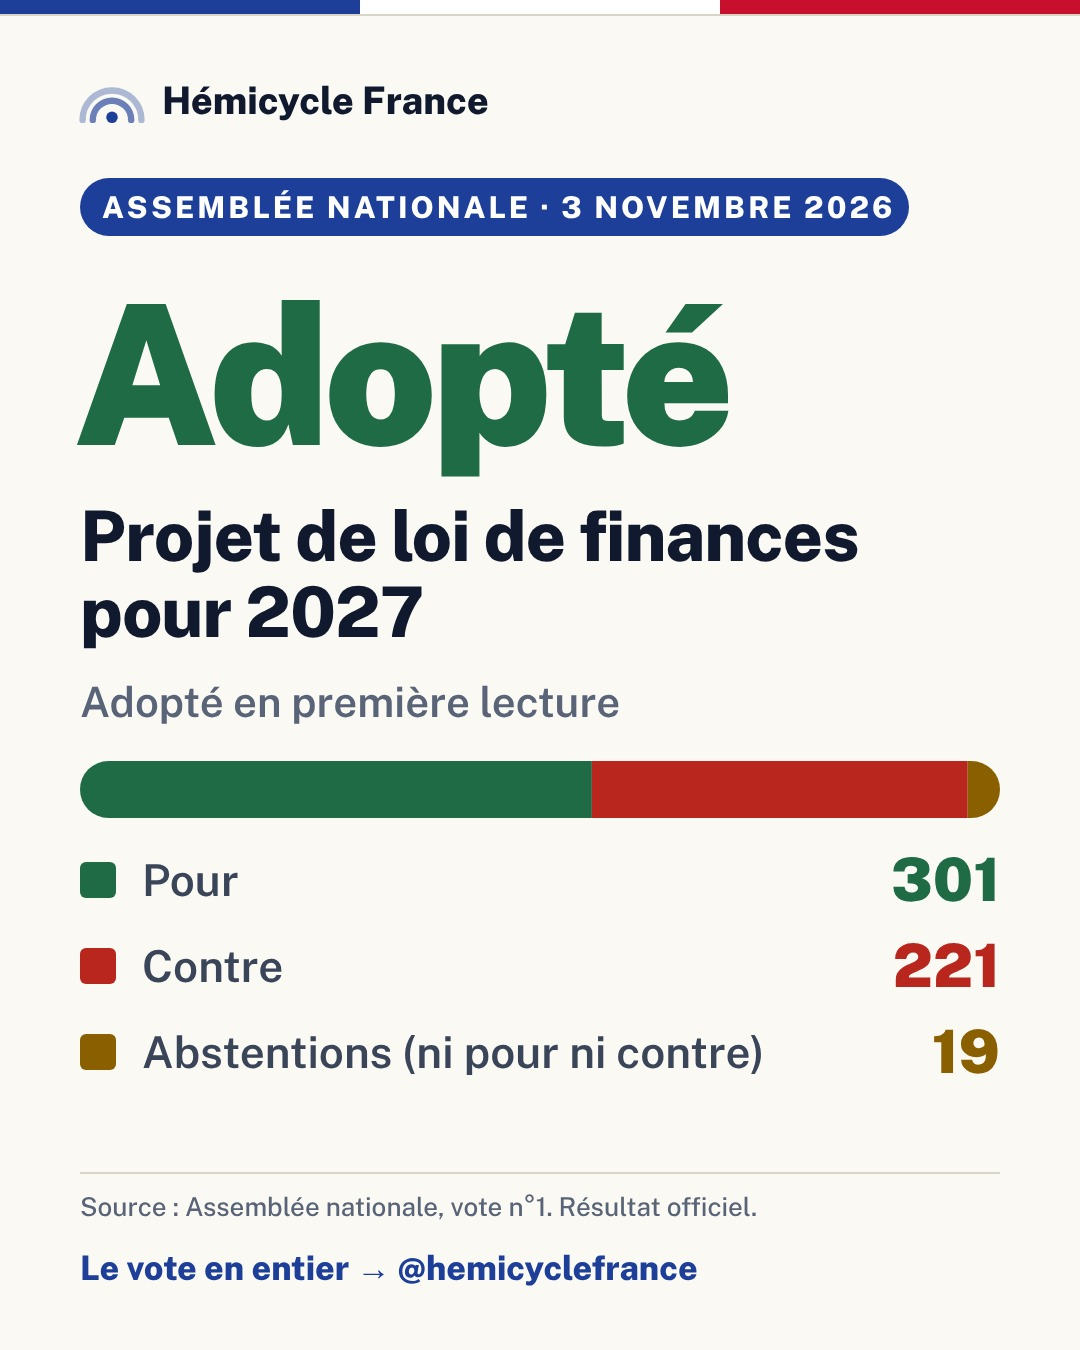
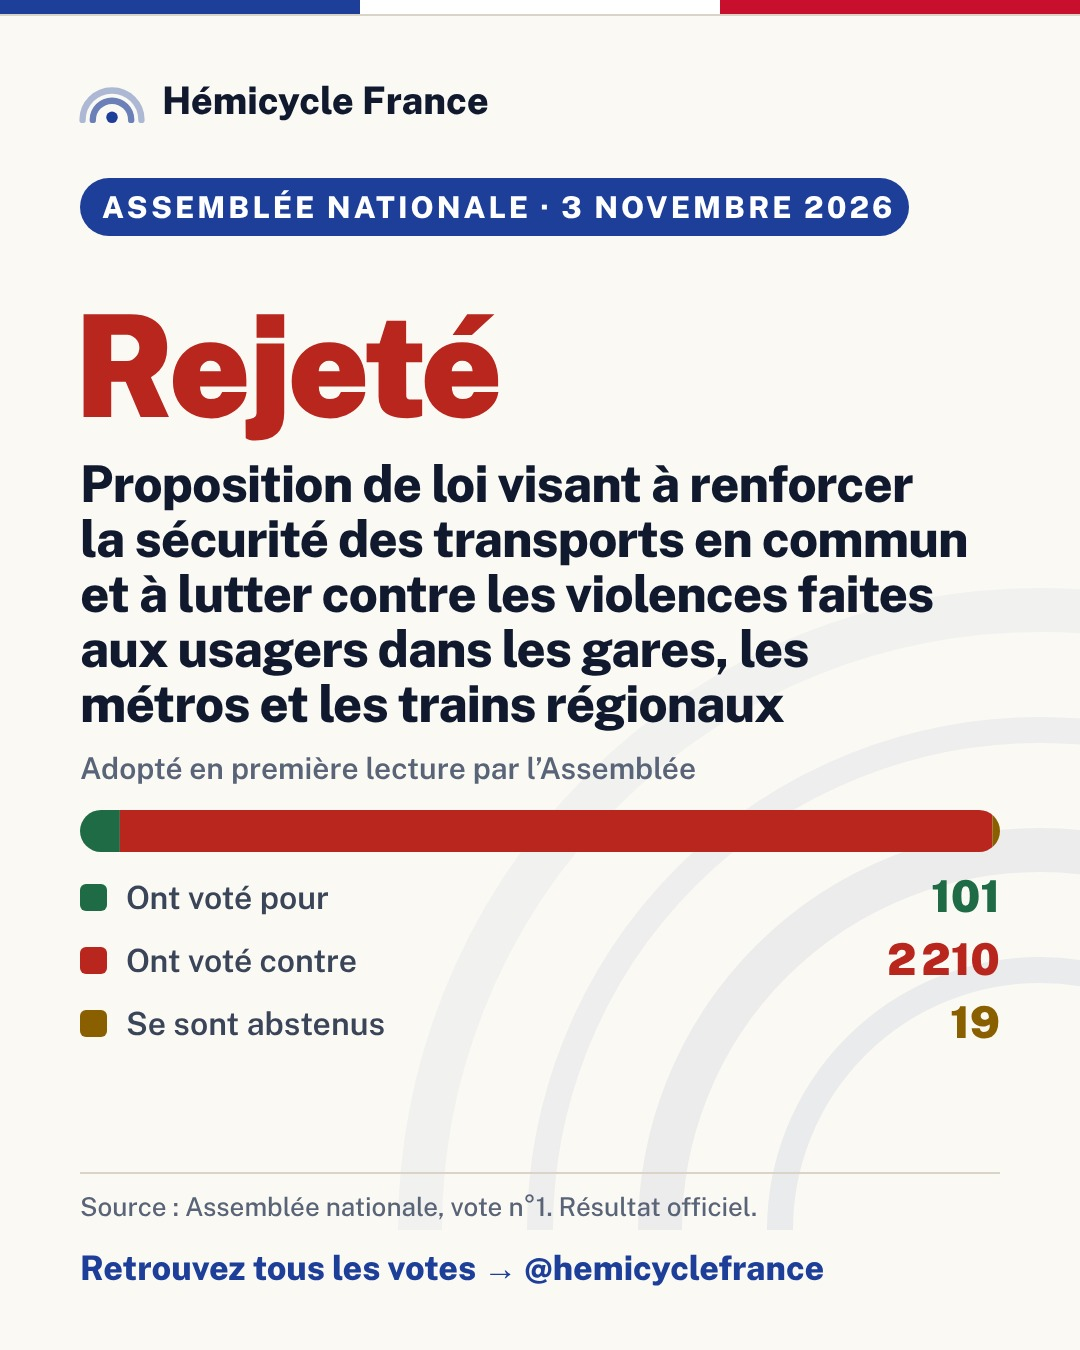
Mise en page soignée et textes plus humains
Claude-Session: https://claude.ai/code/session_01EkfaTwQmovFd7iHP4JS3BC

Changed region(s): [[0.0611, 0.2178, 0.9472, 0.8089], [0.0611, 0.9333, 0.7639, 0.9644]]

diff --git a/js/stories-vecto.js b/js/stories-vecto.js
@@ -26,7 +26,18 @@ function mesure(txt, poids, taille){
   return _m.measureText(txt).width;
 }
 // Retour à la ligne : renvoie au plus `max` lignes ; si le texte est trop long, la dernière finit par « … » (jamais sur un mot faible)
-function lignes(txt, poids, taille, larg, max = 99){
+function lignes(txt, poids, taille, larg, max = 99, equilibre = false){
+  const r = lignesBrut(txt, poids, taille, larg, max);
+  if(!equilibre || r.coupe || r.l.length < 2) return r;
+  // rag équilibré : la plus petite largeur qui garde le même nombre de lignes (plus de mot orphelin sur la dernière)
+  let lo = larg * 0.55, hi = larg, best = r;
+  for(let i = 0; i < 9; i++){
+    const mid = (lo + hi) / 2, t = lignesBrut(txt, poids, taille, mid, max);
+    if(!t.coupe && t.l.length === r.l.length){ best = t; hi = mid; } else lo = mid;
+  }
+  return best;
+}
+function lignesBrut(txt, poids, taille, larg, max = 99){
   const mots = typo(txt).split(" ").filter(Boolean), out = [];
   let cur = "";
   for(const m of mots){
@@ -45,8 +56,15 @@ function lignes(txt, poids, taille, larg, max = 99){
 const txtSvg = (t, x, y, { taille = 40, poids = 500, couleur = ENCRE, ancre = "start", ls = 0 } = {}) =>
   `<text x="${x}" y="${y}" font-family="${FAM}" font-size="${taille}" font-weight="${poids}" fill="${couleur}" text-anchor="${ancre}"${ls ? ` letter-spacing="${ls}"` : ""}>${esc(t)}</text>`;
 // Paragraphe : renvoie { svg, h }. `y` = haut du bloc
-function para(txt, x, y, { taille = 40, poids = 500, couleur = ENCRE, larg = LARG, max = 99, inter = 1.28, ls = 0 } = {}){
-  const r = lignes(txt, poids, taille, larg, max), pas = Math.round(taille * inter);
+function para(txt, x, y, { taille = 40, poids = 500, couleur = ENCRE, larg = LARG, max = 99, inter = 1.28, ls = 0, eq = false, entier = false, min = 30, phrases = false } = {}){
+  if(phrases && lignes(txt, poids, taille, larg, max).coupe){ // trop long : on garde les phrases entières qui tiennent plutôt qu'une coupe au milieu
+    const ph = typo(txt).match(/[^.!?]+[.!?]+(?:\s|$)/g) || [];
+    let ok = "";
+    for(const f of ph){ const t = (ok + f).trim(); if(lignes(t, poids, taille, larg, max).coupe) break; ok = t + " "; }
+    if(ok.trim()) txt = ok.trim();
+  }
+  if(entier) while(taille > min && lignes(txt, poids, taille, larg, max).coupe) taille -= 2; // un titre n'est jamais coupé : on réduit d'abord la taille
+  const r = lignes(txt, poids, taille, larg, max, eq), pas = Math.round(taille * inter);
   const svg = r.l.map((s, i) => txtSvg(s, x, y + Math.round(taille * 0.92) + i * pas, { taille, poids, couleur, ls })).join("");
   return { svg, h: r.l.length * pas, n: r.l.length };
 }
@@ -55,6 +73,8 @@ function logo(x, y, s = 64, couleur = BLEU){
   const c = s / 2, arc = (r, e) => `<path d="M ${c - r} ${s * 0.78} A ${r} ${r} 0 0 1 ${c + r} ${s * 0.78}" fill="none" stroke="${couleur}" stroke-width="${e}" stroke-linecap="round" opacity="${r > c * 0.8 ? 0.35 : r > c * 0.45 ? 0.65 : 1}"/>`;
   return `<g transform="translate(${x} ${y})">${arc(s * 0.46, s * 0.1)}${arc(s * 0.3, s * 0.1)}<circle cx="${c}" cy="${s * 0.74}" r="${s * 0.09}" fill="${couleur}"/></g>`;
 }
+// Grand hémicycle stylisé, très pâle, en bas à droite : remplit le vide sans gêner la lecture (forme vectorielle pure)
+const decor = (col, H) => { const cx = L - 40, cy = H - 120; return [620, 500, 380, 260].map((r, i) => `<path d="M ${cx - r} ${cy} A ${r} ${r} 0 0 1 ${cx + r} ${cy}" fill="none" stroke="${col}" stroke-width="${i % 2 ? 26 : 44}" opacity="${0.045 + i * 0.01}"/>`).join(""); };
 const bandeauTricolore = () => `<rect x="0" y="0" width="${L / 3}" height="14" fill="#1D3F9A"/><rect x="${L / 3}" y="0" width="${L / 3}" height="14" fill="#FFFFFF"/><rect x="${2 * L / 3}" y="0" width="${L / 3}" height="14" fill="#C8102E"/><rect x="0" y="14" width="${L}" height="2" fill="${FILET}"/>`;
 // Pastille (étiquette) : renvoie { svg, w }
 function pastille(txt, x, y, { fond = BLEU, texte = BLANC, taille = 30 } = {}){
@@ -70,8 +90,8 @@ const VERT = "#1F6B45", ROUGEV = "#B8261E", AMBRE = "#8A5F00";
 function bloc(b, x, y, k){ // renvoie { svg, h } ; y = haut
   const S = n => Math.round(n * k);
   switch(b.t){
-    case "titre": { const o = { taille: S(b.taille || 84), poids: 800, couleur: ENCRE, max: b.max || 5, inter: 1.08, ls: -1 }; const p = para(b.txt, x, y, o); return { svg: p.svg, h: p.h + S(22) }; }
-    case "p": { const p = para(b.txt, x, y, { taille: S(b.taille || 42), poids: b.poids || 500, couleur: b.couleur || DOUX, max: b.max || 6, larg: b.larg || LARG }); return { svg: p.svg, h: p.h + S(b.espace == null ? 22 : b.espace) }; }
+    case "titre": { const o = { taille: S(b.taille || 84), poids: 800, couleur: ENCRE, max: (b.max || 5) + 2, inter: 1.08, ls: -1, eq: true, entier: true, min: 34 }; const p = para(b.txt, x, y, o); return { svg: p.svg, h: p.h + S(22) }; }
+    case "p": { const p = para(b.txt, x, y, { taille: S(b.taille || 42), poids: b.poids || 500, couleur: b.couleur || DOUX, max: b.max || 6, larg: b.larg || LARG, phrases: Boolean(b.phrases) }); return { svg: p.svg, h: p.h + S(b.espace == null ? 22 : b.espace) }; }
     case "hero": { // grand nombre + légende
       let t = S(b.taille || 230); while(t > 70 && mesure(b.txt, 900, t) > LARG) t -= 6;
       const svg = txtSvg(b.txt, x - 6, y + Math.round(t * 0.82), { taille: t, poids: 900, couleur: b.couleur || BLEU, ls: -t * 0.03 });
@@ -107,7 +127,7 @@ function bloc(b, x, y, k){ // renvoie { svg, h } ; y = haut
     }
     case "voix": { // Pour / Contre / Abstentions : une barre proportionnelle + trois lignes lisibles
       const tot = Math.max(1, b.pour + b.contre + b.abst), S2 = S(1);
-      const parts = [["Pour", b.pour, VERT], ["Contre", b.contre, ROUGEV], ["Abstentions (ni pour ni contre)", b.abst, AMBRE]];
+      const parts = [["Ont voté pour", b.pour, VERT], ["Ont voté contre", b.contre, ROUGEV], ["Se sont abstenus", b.abst, AMBRE]];
       let svg = "", xx = x; const hb = S(44);
       svg += `<clipPath id="cb"><rect x="${x}" y="${y}" width="${LARG}" height="${hb}" rx="${hb / 2}"/></clipPath><g clip-path="url(#cb)">`;
       for(const [, n, c] of parts){ const w = LARG * n / tot; if(w > 0) svg += `<rect x="${xx}" y="${y}" width="${w}" height="${hb}" fill="${c}"/>`; xx += w; }
@@ -132,7 +152,7 @@ function image(o){
   const col = accent(o.couleur);
   const yLogo = haut, yKick = yLogo + 108;
   let svg = `<rect width="${L}" height="${H}" fill="${FOND}"/>${bandeauTricolore()}`;
-  svg += logo(MARGE, yLogo, 64, col) + txtSvg("Hémicycle France", MARGE + 82, yLogo + 44, { taille: 38, poids: 800, couleur: ENCRE });
+  svg += decor(col, H) + logo(MARGE, yLogo, 64, col) + txtSvg("Hémicycle France", MARGE + 82, yLogo + 44, { taille: 38, poids: 800, couleur: ENCRE });
   if(o.total > 1) svg += txtSvg(`${o.n}/${o.total}`, L - MARGE, yLogo + 44, { taille: 36, poids: 800, couleur: PALE, ancre: "end" });
   const p = pastille(o.kicker || "Actualité", MARGE, yKick, { fond: col });
   svg += p.svg;
@@ -155,7 +175,7 @@ function image(o){
   svg += `<rect x="${MARGE}" y="${yFiletPied}" width="${LARG}" height="2" fill="${FILET}"/>`;
   src.l.forEach((t, i) => { svg += txtSvg(t, MARGE, yFiletPied + 44 + i * 34, { taille: 26, poids: 500, couleur: PALE }); });
   svg += txtSvg(cta, MARGE, yCta, { taille: 34, poids: 800, couleur: col });
-  return { svg, H };
+  return { svg, H, k: choix.k };
 }
 
 
@@ -171,7 +191,7 @@ function photoUrl(img){
 function imagePhoto(o){
   const H = o.H, post = H < 1500, col = accent(o.couleur);
   const haut = post ? 70 : 250, bas = post ? H - 70 : H - 250;
-  let svg = `<defs><linearGradient id="gd" x1="0" y1="0" x2="0" y2="1"><stop offset="0" stop-color="#0A0F1E" stop-opacity="0.55"/><stop offset="0.28" stop-color="#0A0F1E" stop-opacity="0.05"/><stop offset="0.5" stop-color="#0A0F1E" stop-opacity="0.72"/><stop offset="1" stop-color="#0A0F1E" stop-opacity="0.97"/></linearGradient></defs>`;
+  let svg = `<defs><linearGradient id="gd" x1="0" y1="0" x2="0" y2="1"><stop offset="0" stop-color="#0A0F1E" stop-opacity="0.82"/><stop offset="0.16" stop-color="#0A0F1E" stop-opacity="0.5"/><stop offset="0.32" stop-color="#0A0F1E" stop-opacity="0.08"/><stop offset="0.5" stop-color="#0A0F1E" stop-opacity="0.72"/><stop offset="1" stop-color="#0A0F1E" stop-opacity="0.97"/></linearGradient></defs>`;
   const im = o.photo.img, r = Math.max(L / im.naturalWidth, H / im.naturalHeight);
   svg += `<rect width="${L}" height="${H}" fill="#0A0F1E"/><image href="${photoUrl(im)}" x="${(L - im.naturalWidth * r) / 2}" y="${(H - im.naturalHeight * r) / 2}" width="${im.naturalWidth * r}" height="${im.naturalHeight * r}" preserveAspectRatio="none"/><rect width="${L}" height="${H}" fill="url(#gd)"/>`;
   svg += bandeauTricolore();
@@ -186,12 +206,12 @@ function imagePhoto(o){
   lc.l.forEach((t, i) => { svg += txtSvg(t, MARGE, yCred - (lc.l.length - 1 - i) * 30, { taille: 24, poids: 500, couleur: "#C9CFDD" }); });
   const yBasTexte = yCred - lc.l.length * 30 - 44;
   // titre + sous-titre, calés en bas, plus grande taille qui tient
-  const hMax = (post ? 700 : 1000);
+  const hMax = (post ? 760 : 1060);
   let k = post ? 1.2 : 1.5, t = null;
   for(; k >= 0.6; k -= 0.05){
     const tt = Math.round(86 * k), so = Math.round(40 * k);
-    const pt = para(o.titre, MARGE, 0, { taille: tt, poids: 900, couleur: BLANC, max: 6, inter: 1.06, ls: -1 });
-    const ps = o.sous ? para(o.sous, MARGE, 0, { taille: so, poids: 500, couleur: "#E6E9F2", max: 4, inter: 1.28 }) : { h: 0, n: 0 };
+    const pt = para(o.titre, MARGE, 0, { taille: tt, poids: 900, couleur: BLANC, max: 8, inter: 1.06, ls: -1, eq: true, entier: true, min: 44 });
+    const ps = o.sous ? para(o.sous, MARGE, 0, { taille: so, poids: 500, couleur: "#E6E9F2", max: 4, inter: 1.28, phrases: true }) : { h: 0, n: 0 };
     const h = 66 + 34 + pt.h + (o.sous ? 26 + 8 + ps.h : 0);
     if(h <= hMax || k < 0.61){ t = { tt, so, h }; break; }
   }
@@ -199,10 +219,10 @@ function imagePhoto(o){
   const pas = pastille(o.kicker || "Actualité", MARGE, y0, { fond: col });
   svg += pas.svg;
   let y = y0 + pas.h + 34;
-  const pt = para(o.titre, MARGE, y, { taille: t.tt, poids: 900, couleur: BLANC, max: 6, inter: 1.06, ls: -1 });
+  const pt = para(o.titre, MARGE, y, { taille: t.tt, poids: 900, couleur: BLANC, max: 8, inter: 1.06, ls: -1, eq: true, entier: true, min: 44 });
   svg += pt.svg; y += pt.h;
   svg += `<rect x="${MARGE}" y="${y + 10}" width="120" height="8" rx="4" fill="${JAUNE}"/>`;
-  if(o.sous){ y += 26 + 8; svg += para(o.sous, MARGE, y + 8, { taille: t.so, poids: 500, couleur: "#E6E9F2", max: 4, inter: 1.28 }).svg; }
+  if(o.sous){ y += 26 + 8; svg += para(o.sous, MARGE, y + 8, { taille: t.so, poids: 500, couleur: "#E6E9F2", max: 4, inter: 1.28, phrases: true }).svg; }
   return { svg, H };
 }
 
@@ -241,13 +261,13 @@ MODELES.actualite = async (info) => {
   const medias = (Array.isArray(s.sources) && s.sources.length ? s.sources : [...new Set(s.articles.map(a => a.media))]).filter(Boolean), n = medias.length;
   const direct = force === "direct" || (typeof enDirectDe === "function" && enDirectDe(s));
   const quand0 = typeof storyJourFr === "function" && (s.derniere || s.articles[0].date) ? `Mis à jour le ${storyJourFr(s.derniere || s.articles[0].date)}.` : "";
-  if(d.photo && !window.STORY_SANS_PHOTO) return imagePhoto({ H: H_S, photo: d.photo, kicker: direct ? "En direct" : d.categorie, couleur: direct ? "direct" : d.theme, titre: d.accroche, sous: d.essentiel, source: n >= 2 ? `${n} médias en parlent. ${quand0}` : quand0, cta: d.cta });
+  if(d.photo && !window.STORY_SANS_PHOTO) return imagePhoto({ H: H_S, photo: d.photo, kicker: direct ? "En direct" : d.categorie, couleur: direct ? "direct" : d.theme, titre: d.accroche, sous: d.essentiel, source: [n >= 2 ? `${n} médias en parlent` : `Raconté par ${medias[0]}`, quand0.replace(/\.$/, "")].filter(Boolean).join(" · "), cta: "Suivez l'actu avec nous" });
   const blocs = [{ t: "titre", txt: d.accroche, taille: 84, max: 6 }, { t: "ligne", couleur: accent(direct ? "direct" : d.theme) }];
   if(d.chiffre && s.chiffre?.valeur) blocs.push({ t: "hero", txt: d.chiffre.valeur, sous: d.chiffre.legende, couleur: accent(d.theme), taille: 190 });
-  if(d.essentiel) blocs.push({ t: "p", txt: d.essentiel, taille: 44, max: 5 });
-  blocs.push({ t: "p", txt: n >= 2 ? `${n} médias en parlent : ${medias.slice(0, 4).join(", ")}${n > 4 ? "…" : ""}.` : `Publié par ${medias[0]}.`, taille: 34, poids: 700, couleur: PALE, max: 3 });
+  if(d.essentiel) blocs.push({ t: "p", txt: d.essentiel, taille: 44, max: 5, phrases: true });
+  blocs.push({ t: "p", txt: n >= 2 ? `À lire chez ${medias.slice(0, 4).join(", ")}${n > 4 ? " et d'autres" : ""}.` : `À lire chez ${medias[0]}.`, taille: 34, poids: 700, couleur: PALE, max: 3 });
   const a0 = s.articles[0], quand = typeof storyJourFr === "function" && (s.derniere || a0.date) ? `Mis à jour le ${storyJourFr(s.derniere || a0.date)}.` : "";
-  return image({ H: H_S, kicker: direct ? "En direct" : d.categorie, couleur: direct ? "direct" : d.theme, blocs, source: ["Titres relevés dans la presse, sources citées.", quand].filter(Boolean).join(" "), cta: d.cta });
+  return image({ H: H_S, kicker: direct ? "En direct" : d.categorie, couleur: direct ? "direct" : d.theme, blocs, source: ["D'après la presse, sources citées", quand.replace(/\.$/, "").replace(/^Mis à jour/, "mis à jour")].filter(Boolean).join(" · "), cta: "Suivez l'actu avec nous" });
 };
 
 // Post « date à retenir » / « loi » / « presse »
@@ -256,11 +276,11 @@ MODELES.post = async (s) => {
   if(s.genre === "date"){
     const blocs = [{ t: "hero", txt: `${s.jour} ${maj(s.mois || "")}`.trim(), sous: s.annee ? `${s.semaine || ""} ${s.annee}`.trim() : s.semaine || "", couleur: BLEU, taille: 180 }, { t: "titre", txt: s.titre, taille: 64, max: 4 }];
     if(s.citation) blocs.push({ t: "carte", txt: `« ${typo(s.citation)} »`, taille: 36, max: 5 });
-    return image({ H: H_P, kicker: "Date à retenir", couleur: "politique", blocs, source: s.media ? `Selon ${s.media}. ${s.agenda ? "Agenda officiel." : "Date à vérifier à la source."}` : "Date annoncée par la presse.", cta: "À retenir" });
+    return image({ H: H_P, kicker: "À noter dans l'agenda", couleur: "politique", blocs, source: s.media ? `Annoncé par ${s.media}${s.agenda ? " · agenda officiel" : " · pensez à vérifier la date à la source"}` : "Date annoncée par la presse", cta: "Gardez-la en tête" });
   }
   if(s.genre === "presse"){
     const blocs = [{ t: "titre", txt: s.titre, taille: 64, max: 4 }, { t: "carte", txt: `« ${typo(s.citation || "")} »`, taille: 38, max: 6 }];
-    return image({ H: H_P, kicker: s.surtitre || "Dans la presse", couleur: "politique", blocs, source: s.sourceTxt || (s.media ? `Titre cité de ${s.media}.` : ""), cta: "Toute l'actu politique" });
+    return image({ H: H_P, kicker: s.surtitre || "Ce que dit la presse", couleur: "politique", blocs, source: s.sourceTxt || (s.media ? `Titre cité de ${s.media}.` : ""), cta: "Toute l'actu politique" });
   }
   const adopte = s.verdict === "adopte", c = adopte ? VERT : ROUGEV;
   const blocs = [
@@ -269,7 +289,7 @@ MODELES.post = async (s) => {
   ];
   if(s.etapeSimple || s.etape) blocs.push({ t: "p", txt: maj(s.etapeSimple || s.etape), taille: 32, poids: 600, couleur: PALE, max: 2 });
   blocs.push({ t: "voix", pour: s.pour || 0, contre: s.contre || 0, abst: s.abst || 0 });
-  return image({ H: H_P, kicker: `${s.chambre || "Parlement"} · ${s.date || ""}`.replace(/ · $/, ""), couleur: /s[ée]nat/i.test(s.chambre || "") ? "senat" : "assemblee", blocs, source: s.sourceTxt || "Source officielle.", cta: "Le vote en entier" });
+  return image({ H: H_P, kicker: `${s.chambre || "Parlement"} · ${s.date || ""}`.replace(/ · $/, ""), couleur: /s[ée]nat/i.test(s.chambre || "") ? "senat" : "assemblee", blocs, source: s.sourceTxt || "Source officielle.", cta: "Retrouvez tous les votes" });
 };
 
 // Story qui annonce un post
@@ -277,7 +297,7 @@ MODELES["annonce-post"] = async (s) => {
   if(!s || !s.titre) return null;
   const blocs = [{ t: "titre", txt: s.titre, taille: 76, max: 4 }];
   if(s.sous) blocs.push({ t: "p", txt: s.sous, taille: 40, poids: 700, max: 2 });
-  const im = image({ H: H_S, kicker: "Nouveau post", couleur: "politique", blocs, source: "Le post vient d'être publié sur le fil du compte.", cta: "À voir sur le fil" });
+  const im = image({ H: H_S, kicker: "Nouveau post", couleur: "politique", blocs, source: "Le post vient d'être publié sur notre fil", cta: "À voir sur notre fil" });
   if(s.miniature){ // la miniature (JPEG) est le seul élément « image » : elle est insérée telle quelle, avec un cadre
     const w = 400, h = 500, x = (L - w) / 2, y = H_S - 250 - 74 - 34 - 60 - h;
     im.svg += `<rect x="${x - 10}" y="${y - 10}" width="${w + 20}" height="${h + 20}" rx="14" fill="${BLANC}" stroke="${FILET}" stroke-width="3"/><image href="${esc(s.miniature)}" x="${x}" y="${y}" width="${w}" height="${h}" preserveAspectRatio="xMidYMid slice"/>`;
@@ -299,18 +319,24 @@ MODELES.diapo = async (s) => {
   }
   if(s.couverture && !window.STORY_SANS_PHOTO){
     const ph = await storyPhotoTheme(/s[ée]nat/i.test(`${s.titre} ${s.source || ""}`) ? "senat" : "assemblee").catch(() => null);
-    if(ph) return imagePhoto({ H: H_P, photo: ph, kicker: s.kicker || "Hémicycle France", couleur: "assemblee", titre: s.titre, sous: (s.corps.find(b => b.p) || {}).p || "", n: s.n, total: s.total, source: s.source || "", cta: "Faites défiler" });
+    if(ph) return imagePhoto({ H: H_P, photo: ph, kicker: s.kicker || "Hémicycle France", couleur: "assemblee", titre: s.titre, sous: (s.corps.find(b => b.p) || {}).p || "", n: s.n, total: s.total, source: s.source || "", cta: "Glissez pour la suite" });
   }
-  return image({ H: H_P, kicker: s.kicker || "Hémicycle France", couleur: s.couverture ? "direct" : "politique", n: s.n, total: s.total, blocs, source: s.source || "Source : données officielles.", cta: s.accroche || (s.n < s.total ? "Faites défiler" : "Toute l'actu politique") });
+  return image({ H: H_P, kicker: s.kicker || "Hémicycle France", couleur: s.couverture ? "direct" : "politique", n: s.n, total: s.total, blocs, source: s.source || "Source : données officielles.", cta: s.accroche || (s.n < s.total ? "Glissez pour la suite" : "À bientôt") });
 };
 
 // Aujourd'hui à l'Assemblée
 MODELES.aujourdhui = async (s) => {
   if(!s || !Array.isArray(s.points) || !s.points.length) return null;
-  const items = s.points.map(p => typo(p.t));
-  const blocs = [{ t: "titre", txt: "Aujourd'hui à l'Assemblée", taille: 84, max: 3 }, { t: "p", txt: maj(s.jour), taille: 42, poids: 700, couleur: BLEU }, { t: "li", items, taille: 38, max: 3 }];
-  if(s.autres > 0) blocs.push({ t: "p", txt: `+ ${s.autres} autre${s.autres > 1 ? "s" : ""} point${s.autres > 1 ? "s" : ""} à l'ordre du jour`, taille: 32, poids: 700, couleur: PALE });
-  return image({ H: H_S, kicker: "Séance publique", couleur: "assemblee", blocs, source: s.source || "Source : Assemblée nationale, ordre du jour.", cta: "Tout l'agenda" });
+  const tous = s.points.map(p => typo(p.t));
+  let img = null;
+  for(let n = tous.length; n >= Math.min(3, tous.length); n--){ // on montre moins de points plutôt que du texte minuscule
+    const reste = s.autres + tous.length - n;
+    const blocs = [{ t: "titre", txt: "Que se passe-t-il à l'Assemblée aujourd'hui ?", taille: 80, max: 4 }, { t: "p", txt: maj(s.jour), taille: 42, poids: 700, couleur: BLEU }, { t: "li", items: tous.slice(0, n), taille: 38, max: 3 }];
+    if(reste > 0) blocs.push({ t: "p", txt: `… et ${reste} autre${reste > 1 ? "s" : ""} sujet${reste > 1 ? "s" : ""} au programme`, taille: 32, poids: 700, couleur: PALE });
+    img = image({ H: H_S, kicker: "Aujourd'hui à l'Assemblée", couleur: "assemblee", blocs, source: s.source || "Source : Assemblée nationale, ordre du jour", cta: "Tout l'agenda" });
+    if(img.k >= 0.85) break;
+  }
+  return img;
 };
 
 // Le vote du jour (sans hémicycle : le détail par groupe reste dans le modèle « vote-groupes »)
@@ -320,14 +346,14 @@ MODELES["vote-jour"] = async (s) => {
   const blocs = [{ t: "hero", txt: adopte ? "Adopté" : "Rejeté", couleur: adopte ? VERT : ROUGEV, taille: 200 }, { t: "titre", txt: s.dossier || s.objet, taille: 60, max: 4 }];
   if(s.dossier && s.objet && s.objet !== s.dossier) blocs.push({ t: "p", txt: s.objet, taille: 34, poids: 600, couleur: PALE, max: 3 });
   blocs.push({ t: "voix", pour: s.pour || 0, contre: s.contre || 0, abst: s.abst || 0 });
-  return image({ H: H_S, kicker: "Le vote du jour", couleur: "assemblee", blocs, source: s.sourceTxt || "Source : Assemblée nationale. Résultat officiel.", cta: "Et votre député ?" });
+  return image({ H: H_S, kicker: "Le vote du jour", couleur: "assemblee", blocs, source: s.sourceTxt || "Source : Assemblée nationale. Résultat officiel.", cta: "Et votre député, il a voté quoi ?" });
 };
 
 // Comprendre
 MODELES.comprendre = async (s) => {
   if(!s || !s.titre || !s.texte) return null;
   const blocs = [{ t: "titre", txt: s.titre, taille: 84, max: 4 }, { t: "ligne", couleur: ACCENTS.social }, { t: "p", txt: s.texte, taille: 46, couleur: ENCRE, max: 12, inter: 1.3 }];
-  return image({ H: H_S, kicker: `Comprendre · ${s.n}/${s.total}`, couleur: "social", blocs, source: s.sourceTxt || "", cta: "Une notion par semaine" });
+  return image({ H: H_S, kicker: `On vous explique · ${s.n}/${s.total}`, couleur: "social", blocs, source: s.sourceTxt || "", cta: "Une notion simple chaque semaine" });
 };
 
 // Le chiffre du jour
@@ -335,7 +361,7 @@ MODELES["chiffre-jour"] = async (s) => {
   if(!s || !s.libelle || !s.valeur) return null;
   const blocs = [{ t: "titre", txt: s.libelle, taille: 64, max: 3 }, { t: "hero", txt: typo(s.valeur), sous: [s.soustitre, s.periode].filter(Boolean).map(typo).join(" · "), couleur: VERT, taille: 260 }];
   for(const l of (s.lignes || []).filter(Boolean).slice(0, 3)) blocs.push({ t: "p", txt: l, taille: 38, max: 3 });
-  return image({ H: H_S, kicker: "Le chiffre du jour", couleur: "budget", blocs, source: s.sourceTxt || "", cta: "Un chiffre par jour" });
+  return image({ H: H_S, kicker: "Le chiffre du jour", couleur: "budget", blocs, source: s.sourceTxt || "", cta: "Un chiffre à retenir chaque jour" });
 };
 
 window.STORY_VECTO_TYPES = Object.keys(MODELES);

diff --git a/instagram/LISEZMOI.md b/instagram/LISEZMOI.md
@@ -50,3 +50,5 @@ Aperçus des modèles : `modeles/post-date.jpg`, `modeles/post-loi.jpg` (posts) 
 Les stories, posts et carrousels sont maintenant écrits en **SVG** (formes et texte, police Public Sans embarquée), puis exportés en JPEG 1080 px pour Instagram. Une seule charte, volontairement simple : fond clair, gros texte noir, une couleur par rubrique, un message par image, source toujours visible. Types concernés : `actualite`, `post` (date, loi, presse), `annonce-post`, `diapo` (carrousels), `aujourdhui`, `vote-jour`, `comprendre`, `chiffre-jour`. Les autres types (dossiers, « en bref », sondages, hémicycle par groupe, portraits) gardent l'ancien dessin en attendant leur migration. Le SVG est renvoyé par `dessinerStory` (champ `svg`). `window.STORY_SANS_VECTO = true` rétablit l'ancien rendu pour comparer. Le test comparatif des 4 styles est neutralisé pour ces types (un seul style). Aperçus : `modeles/vecto-*.jpg`.
 
 **Style « presse »** : quand une photo libre d'une institution existe pour le thème (`data/vignettes.json`), l'actualité et la couverture des carrousels sont dessinées photo plein cadre sous un dégradé sombre, gros titre blanc, trait jaune, crédit de la photo visible (« Photo d'illustration »). Sans photo : la carte claire. `window.STORY_SANS_PHOTO = true` désactive ce style.
+
+**Mise en page et ton** : titres jamais coupés (la taille baisse d'abord, retours à la ligne équilibrés), sous-titres coupés à la phrase entière, agenda réduit à quelques points plutôt qu'un texte minuscule, hémicycle vectoriel pâle en décor. Mots simples partout (« Ont voté pour / contre », « Se sont abstenus », « On vous explique », « Glissez pour la suite »).
